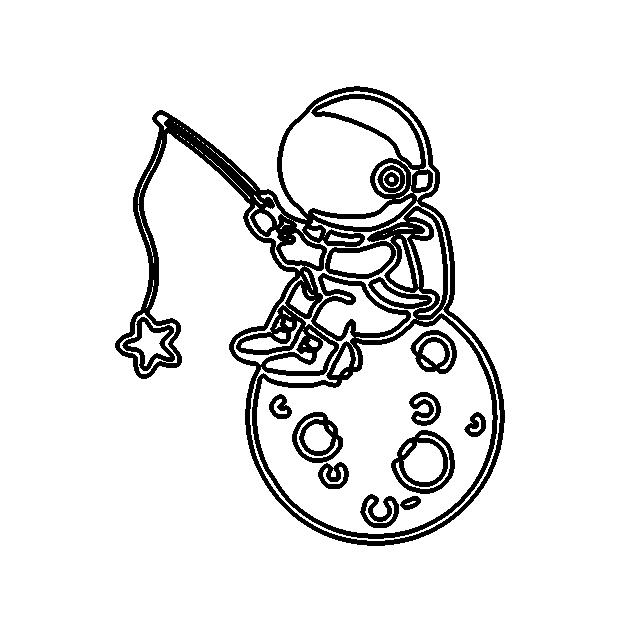
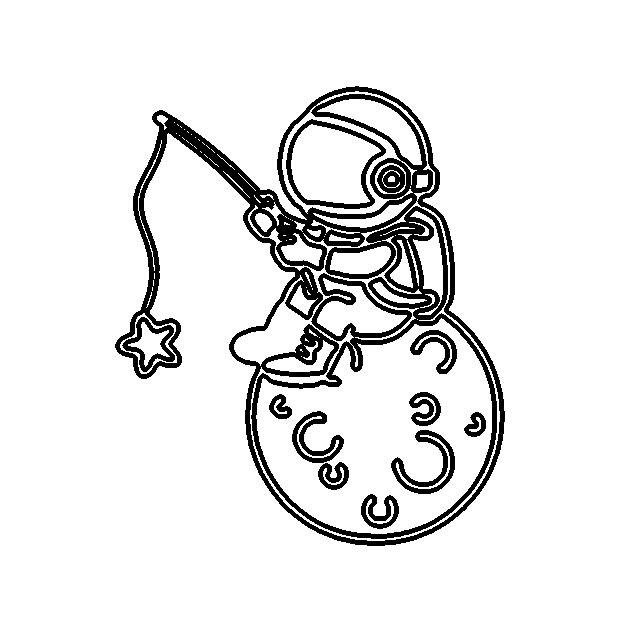
Concat 2 k-means functions into 1

diff --git a/Contours.py b/Contours.py
@@ -7,8 +7,18 @@ from sklearn.cluster import KMeans
 import pandas as pd
 import os
 
+file_name = "astrocute"
+file_path = str("InputImages/" + file_name + ".jpg")
+
 
 def find_colour_pal(compressed_image, im_name):
+    """
+    This function draws a grid of the colours used for the clusters. This gives the user an easy way to check they have the correct colouring crayons.
+
+    :param compressed_image: Numpy array of the pixel values for the compressed image after applying k-means to the original imput image.
+    :param im_name: Name of the file to be used as the filename when saving.
+    :return: A palette of the cluster colours
+    """
     # Credit: https://stackoverflow.com/a/51729498/4367851
     temp_image = Image.fromarray(np.uint8(compressed_image)).convert('RGB')
     colours = Image.Image.getcolors(temp_image)
@@ -21,7 +31,12 @@ def find_colour_pal(compressed_image, im_name):
 
     RGB = df["RGB"].tolist()
     palette = np.array(RGB)[np.newaxis, :, :]
-    palette = palette.reshape(2, -1, 3)
+
+    if palette.shape[0] % 2 == 0:
+        palette = palette.reshape(2, -1, 3)
+    elif palette.shape[0] % 3 == 0:
+        palette = palette.reshape(3, -1, 3)
+
     plt.figure(figsize=(20, 10))
     plt.imshow(palette)
     plt.xticks([])
@@ -33,7 +48,7 @@ def find_colour_pal(compressed_image, im_name):
 
 
 def plot_histogram(imag):
-    plt.hist(imag.ravel(), 256) #Histogram is not bimodal so we can not use Otsu's thresholding.
+    plt.hist(imag.ravel()/255., 256)  # Histogram is not bimodal so we can not use Otsu's thresholding.
     plt.xlabel("Pixel Value")
     plt.ylabel("Frequency")
     plt.title("Histogram for input image")
@@ -50,23 +65,18 @@ def plot_image(image, title, im_name, map="gray"):
 
 
 def kmeans(clusters):
-    file_name = "astrocute"
-    file_path = str("InputImages/" + file_name + ".jpg")
-
-    #Read the image
-    #imag = Image.open(file_path)
+    # Read the image
     imag = cv2.imread(file_path)
     plot_image(image=cv2.cvtColor(imag, cv2.COLOR_BGR2RGB), title="Original Image", im_name=file_name)
-    #plot_histogram(imag)
+    plot_histogram(imag)
 
-    #Dimension of the original image
-    #cols, rows = imag.size
+    # Dimension of the original image
     rows, cols, _ = imag.shape
 
-    #Flatten the image
+    # Flatten the image
     imag = np.array(imag).reshape(rows*cols, 3)
 
-    #Implement k-means clustering to form k clusters
+    # Implement k-means clustering to form k clusters
     kmeans = KMeans(n_clusters=clusters)
     kmeans.fit(imag)
 
@@ -78,15 +88,14 @@ def kmeans(clusters):
     compressed_image = compressed_image.reshape(rows, cols, 3)
     palette = find_colour_pal(compressed_image, im_name=file_name)
 
-
     # Save and display output image
-    if not os.path.isdir("OutputImages/" + str(file_name)):
-        os.mkdir("OutputImages/" + str(file_name))
-    else:
+    if os.path.isdir("OutputImages/" + str(file_name)):
         pass
+    else:
+        os.mkdir("OutputImages/" + str(file_name))
     imsave(("OutputImages/" + str(file_name) + "/" + str(file_name) + str(clusters) + "Clustered.jpg"), compressed_image)
 
-    return compressed_image, palette, file_name
+    return compressed_image, palette
 
 
 def auto_canny(image, sigma=0.5):
@@ -99,7 +108,15 @@ def auto_canny(image, sigma=0.5):
     return edged
 
 
-def blend_outputs(outline, file_name, clusters):
+def blend_outputs(outline, clusters):
+    """
+    Some of the edges are not closed loops so it can be confusing where one colour stops and another starts.
+    I think overlaying the outlines onto a slightly transparent version of the compressed image gives a good guide to the user for which colour to fill each area with.
+
+    :param outline: The numpy array of outline pixel values
+    :param clusters: Number of clusters from the k-means algorithm
+    :return: NA
+    """
     alpha = 0.4  # This is the amount of the coloured image we include. 0 is none.
     beta = 1 - alpha
     compressed_image = imread(("OutputImages/" + str(file_name) + "/" + str(file_name) + str(clusters) + "Clustered.jpg"))
@@ -115,26 +132,14 @@ def blend_outputs(outline, file_name, clusters):
     plt.show()
 
 
-def canny(img, file_name):
-    compressed_img = cv2.cvtColor(img, cv2.COLOR_BGR2GRAY) #imread reads images as Blue, Green, Red, Alpha
-    plot_image(image=cv2.cvtColor(img, cv2.COLOR_BGR2RGB), title="Compressed", im_name=file_name)
-
-    k = 15
-    blurred = cv2.GaussianBlur(compressed_img, (k, k), sigmaX=(k-1)/6)
-    plot_image(image=blurred, title="Blurred", im_name=file_name, map="gray")
-
-    th3 = cv2.adaptiveThreshold(blurred, 255, cv2.ADAPTIVE_THRESH_GAUSSIAN_C, cv2.THRESH_BINARY, 25, 3)
-    th3 = cv2.morphologyEx(th3, cv2.MORPH_CLOSE, (9, 9))
-
-    blend_outputs(th3, file_name, clusters=20)
-    plot_image(th3, title="Threshold Gray", im_name=file_name)
-
-    th3 = cv2.bitwise_not(th3)
-
-    edged = auto_canny(th3)
-    edged = cv2.dilate(edged, (20, 20), iterations=1)
-    edged = cv2.erode(edged, (20, 20), iterations=1)
-
+def draw_contours(edged):
+    """
+    Draw the contours over a blank array. The function cv2.DrawContours overlays the contours on top of the bitwise array.
+    Which is not ideal if the bitwise array contains some small, noisy contours. Therefore, I created an empty array first and then used this as the base
+    for drawing the contours onto.
+    :param edged: Output of the Canny Edge Detection algorithm after applying erode and dilation.
+    :return:
+    """
     contours, hierarchy = cv2.findContours(edged, cv2.RETR_CCOMP, cv2.CHAIN_APPROX_NONE)
 
     edged = cv2.bitwise_not(edged)
@@ -151,7 +156,41 @@ def canny(img, file_name):
 
     temp_array = np.ones([rgb.shape[0], rgb.shape[1], rgb.shape[2]])
     contours_ = cv2.drawContours(temp_array, final_contours, -1, (0, 0, 0), thickness=3)
+
     plot_image(contours_, title="Contours", im_name=file_name)
+
+
+def main_func(img, clusters):
+    """
+
+    :param img:
+    :param clusters: Number of clusters
+    :return: NA
+    """
+
+    # The output of the k-means algorithm is an array in the form of Blue,Green,Red (BGR) which needs to be converted to grayscale before we conduct a Gaussian Blur.
+    compressed_img = cv2.cvtColor(img, cv2.COLOR_BGR2GRAY)  # imread reads images as Blue, Green, Red, Alpha
+    plot_image(image=cv2.cvtColor(img, cv2.COLOR_BGR2RGB), title="Compressed", im_name=file_name)
+
+    k = 15  # Size of the kernal for the Gaussian Blur
+    blurred = cv2.GaussianBlur(compressed_img, (k, k), sigmaX=(k-1)/6)
+    plot_image(image=blurred, title="Blurred", im_name=file_name, map="gray")
+
+    # Conduct Adaptive Thresholding to the blurred image
+    threshold_image = cv2.adaptiveThreshold(blurred, 255, cv2.ADAPTIVE_THRESH_GAUSSIAN_C, cv2.THRESH_BINARY, 25, 3)
+    threshold_image = cv2.morphologyEx(threshold_image, cv2.MORPH_CLOSE, (9, 9))
+
+    # Overlay the threshold_image on top of a slightly transparent copy of the clustered image.
+    blend_outputs(threshold_image, clusters=clusters)
+    plot_image(threshold_image, title="Threshold Gray", im_name=file_name)
+
+    inverted_threshold = cv2.bitwise_not(threshold_image)
+
+    edged = auto_canny(threshold_image)
+    edged = cv2.dilate(edged, (20, 20), iterations=1)
+    edged = cv2.erode(edged, (20, 20), iterations=1)
+
+    draw_contours(edged)
 
     # fig, ((ax1, ax2), (ax3, ax4)) = plt.subplots(2, 2)
     # lines0 = cv2.drawContours(rgb, contours, 0, (0, 0, 0), 3)
@@ -181,13 +220,13 @@ def canny(img, file_name):
     # plt.savefig("ContoursOutput.jpg", dpi = 400, bbox_inches='tight')
     # plt.show()
 
-    return rgb
 
 def calculate_clusters():
     # Credit: https://blog.cambridgespark.com/how-to-determine-the-optimal-number-of-clusters-for-k-means-clustering-14f27070048f
-    file_name = "astrocute"
-    file_path = str("InputImages/" + str(file_name) + ".jpg")
     imag = cv2.imread(file_path)
+    plot_image(image=cv2.cvtColor(imag, cv2.COLOR_BGR2RGB), title="Original Image", im_name=file_name)
+    plot_histogram(imag)
+
     Sum_of_squared_distances = []
     # Dimension of the original image
     rows, cols, _ = imag.shape
@@ -195,21 +234,54 @@ def calculate_clusters():
     # Flatten the image
     imag = np.array(imag).reshape(rows*cols, 3)
 
-    K = range(1, 20)
+    K = range(1, 5)
     for k in K:
         km = KMeans(n_clusters=k)
         km.fit(imag)
         Sum_of_squared_distances.append(km.inertia_)
 
+    error_df = pd.DataFrame(list(zip(K, Sum_of_squared_distances)), columns=["K", "Error"])
+    error_df["Difference"] = error_df["Error"] - error_df["Error"].shift(-1)
+
     plt.plot(K, Sum_of_squared_distances, 'bx-')
+    plt.plot(K, error_df["Difference"])
+    #plt.yscale('log')
     plt.xlabel('k')
     plt.ylabel('Sum of Squared Distances')
     plt.title('Elbow Method For Optimal k')
     plt.show()
 
-#calculate_clusters()
+    try:
+        clusters = min(error_df.index[error_df["Difference"] < 3e+06].tolist())
+    except ValueError:
+        clusters = max(error_df["K"])
 
+    # Implement k-means clustering to form k clusters
+    kmeans = KMeans(n_clusters=clusters)
+    kmeans.fit(imag)
 
-img, palette, file_name = kmeans(int(8))
-canny(img, file_name)
+    #  Replace each pixel value with its nearby centroid
+    compressed_image = kmeans.cluster_centers_[kmeans.labels_]
+    compressed_image = np.clip(compressed_image.astype('uint8'), 0, 255)
+
+    #  Reshape the image to original dimension
+    compressed_image = compressed_image.reshape(rows, cols, 3)
+    find_colour_pal(compressed_image, im_name=file_name)
+
+    # Save and display output image
+    if os.path.isdir("OutputImages/" + str(file_name)):
+        pass
+    else:
+        os.mkdir("OutputImages/" + str(file_name))
+    imsave(("OutputImages/" + str(file_name) + "/" + str(file_name) + str(clusters) + "Clustered.jpg"), compressed_image)
+
+    try:
+        return min(error_df.index[error_df["Difference"] < 3e+06].tolist())
+    except ValueError:
+        return max(error_df["K"])
+
+clusters = calculate_clusters()
+
+img, palette = kmeans(int(clusters))
+main_func(img, clusters=clusters)
 
